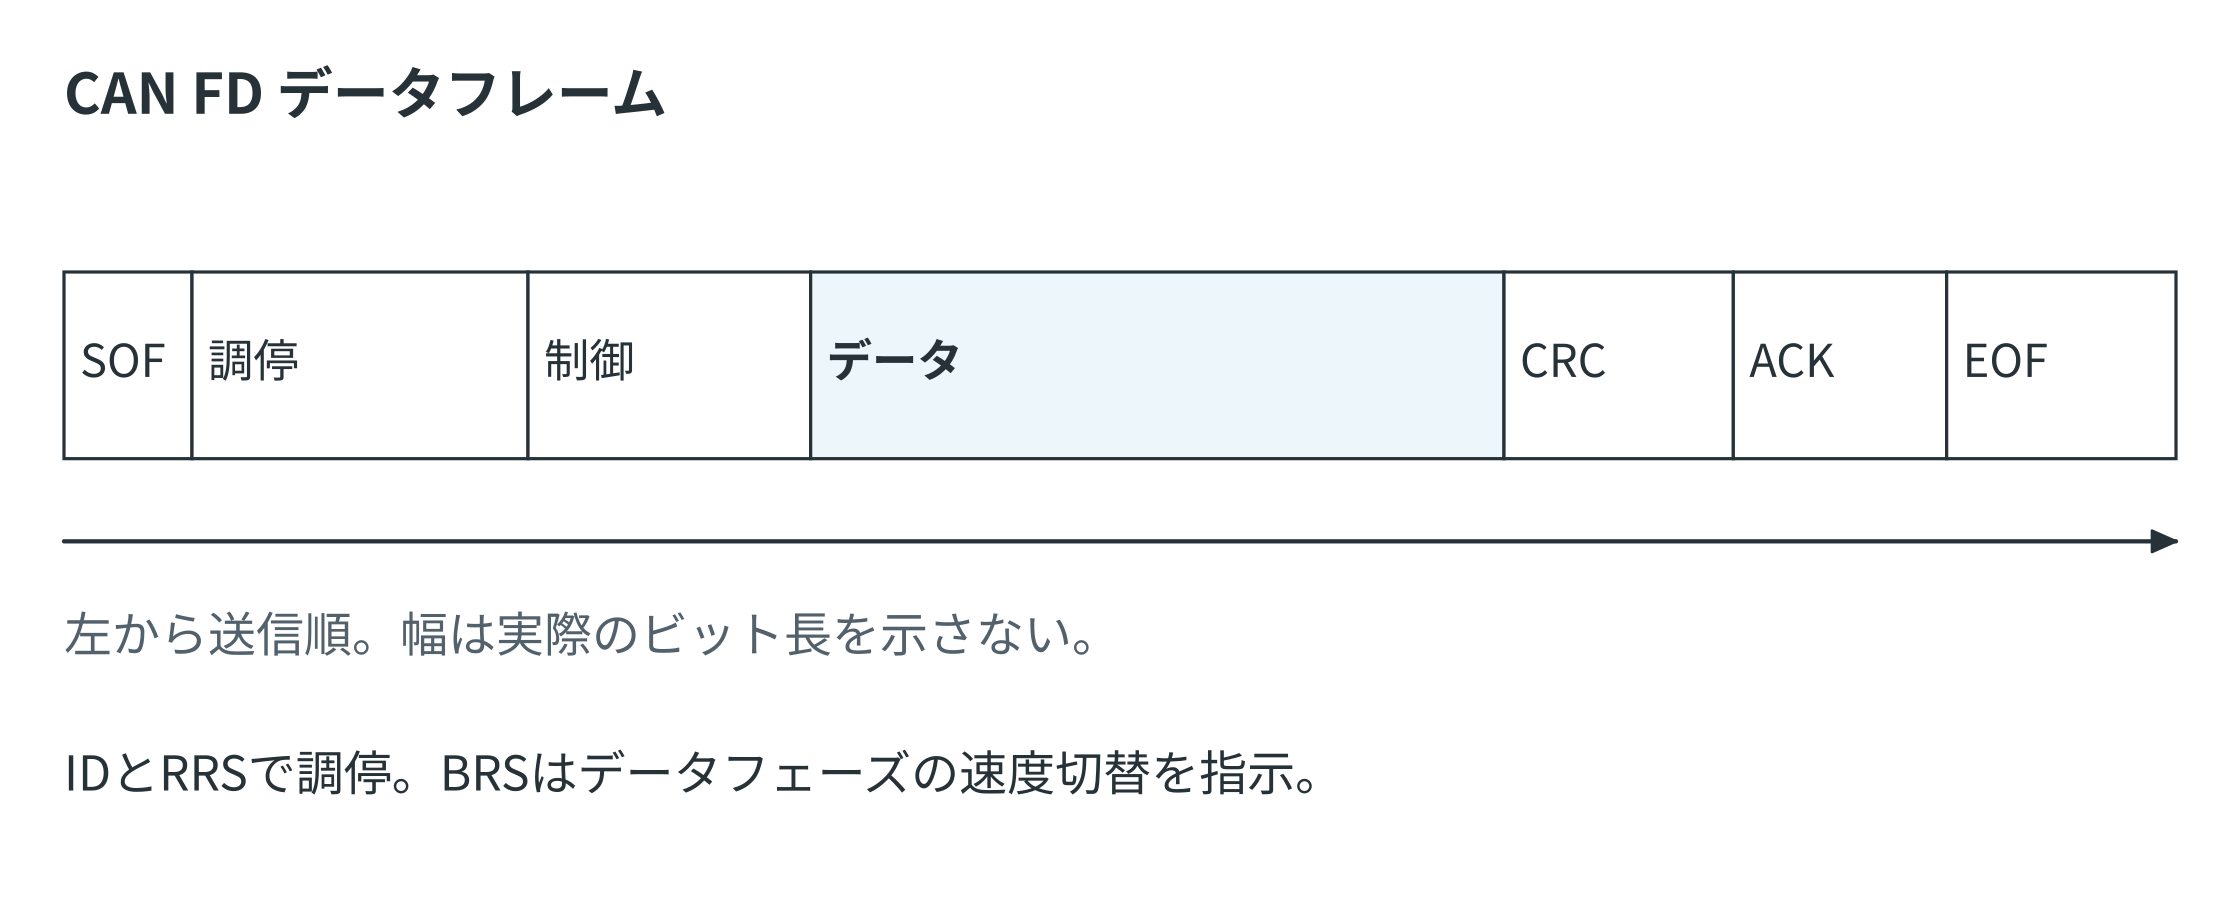
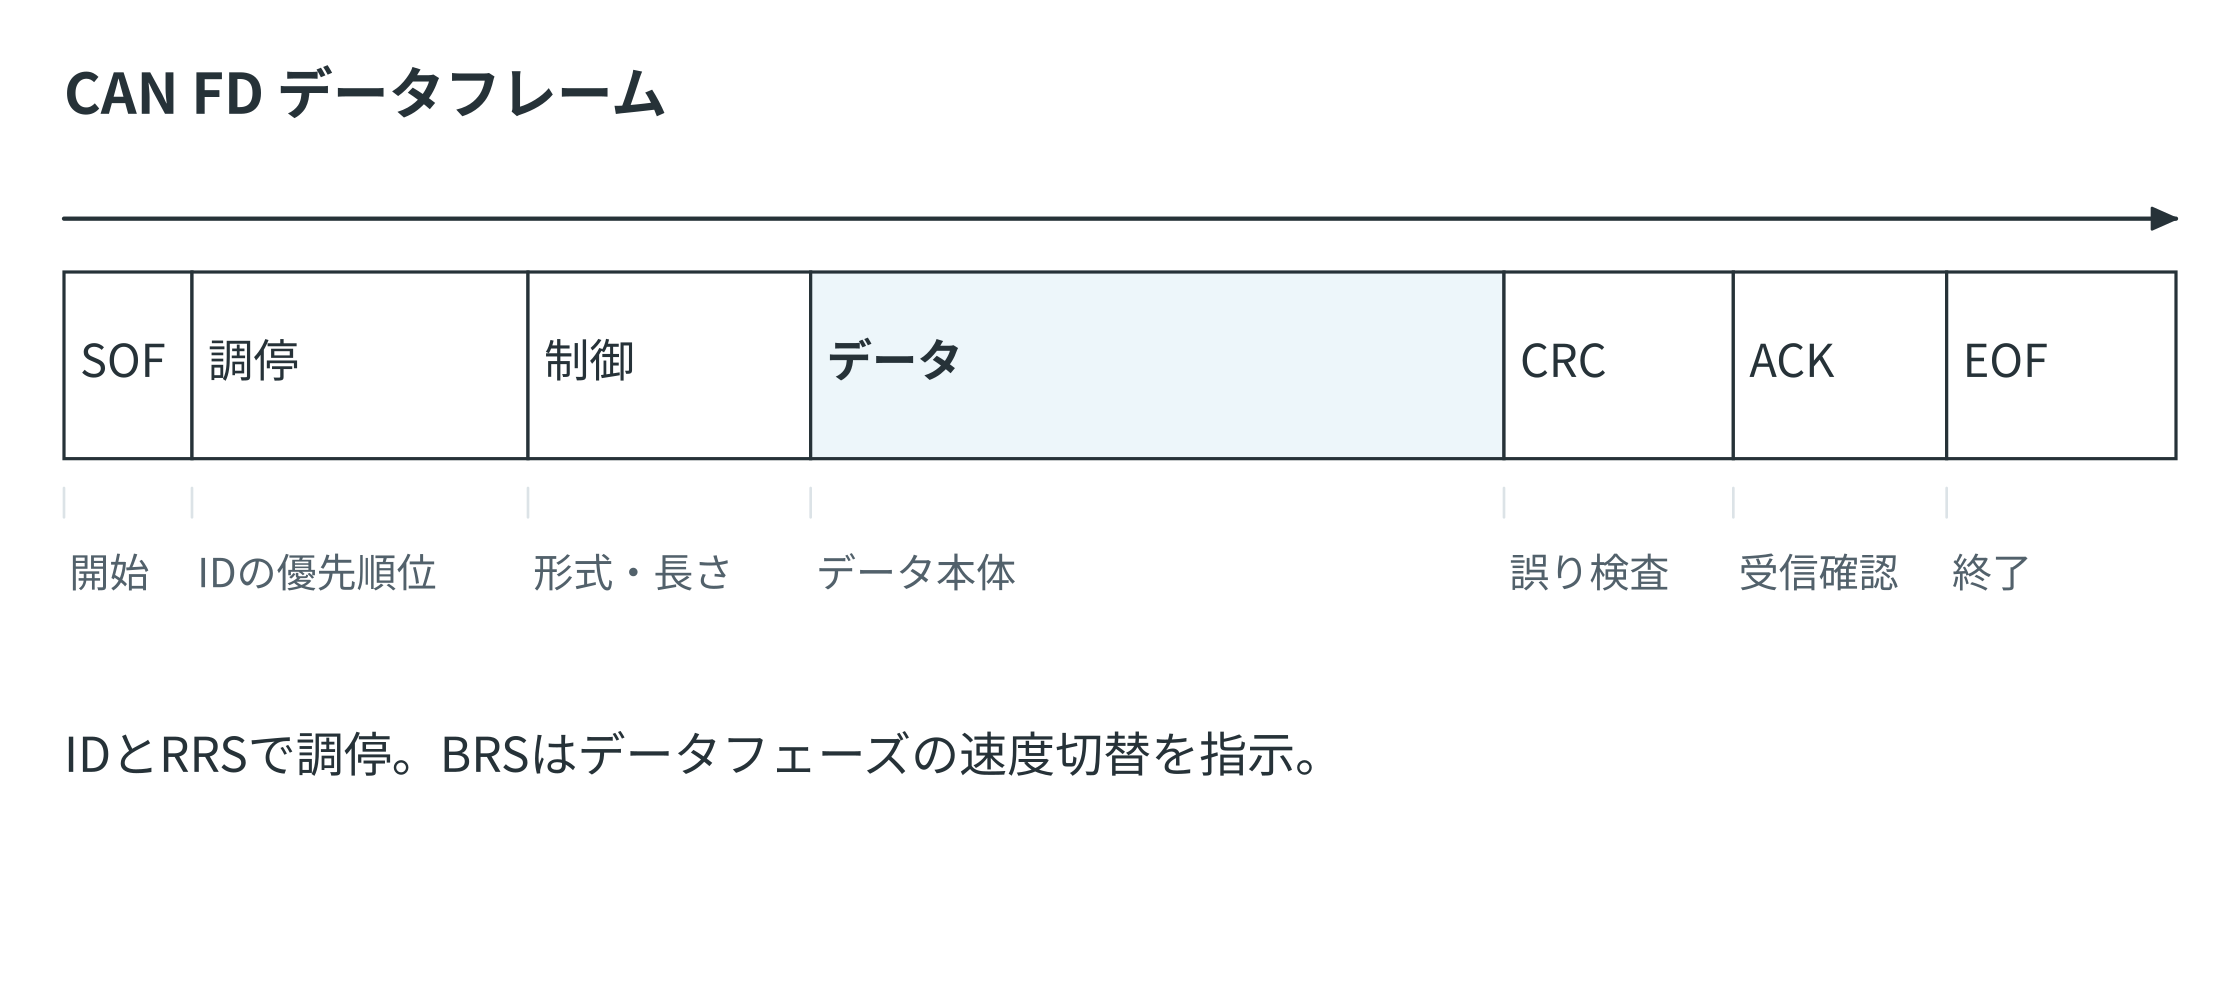
docs: clarify CAN diagrams

diff --git a/figure-sources/wired-communication/redesign_can.py b/figure-sources/wired-communication/redesign_can.py
@@ -78,8 +78,8 @@ def arbitration(mobile=False):
 
 
 def stuffing(mobile=False):
-    s=Scene(400 if mobile else 840,350)
-    s.text(24,20,'同じ値が5 bit続いたら\n反対値を挿入' if mobile else '同じ値が5 bit続いたら反対値を挿入',19,bold=True)
+    s=Scene(400 if mobile else 840,340)
+    s.text(24,20,'ビットスタッフィング',21,bold=True)
     bits=[1,0,0,0,0,0,1,1,0,1]
     x0,step=(28,34) if mobile else (94,68)
     for i,v in enumerate(bits):
@@ -87,14 +87,15 @@ def stuffing(mobile=False):
         if i==6:s.rect(x-5,91,step-7,58,BLUE_TINT,BLUE)
         s.text(x,101,str(v),24 if not mobile else 22,BLUE if i==6 else INK,width=step)
     s.line(x0+step,161,x0+step*6-12,161,INK,1.5)
-    s.text(24,194,'0が5つ続く → スタッフビット1を挿入',17)
-    s.text(24,239,'受信側は挿入したビットを取り除く。',18)
-    s.text(24,288,'Classical CANの動的スタッフィング例',17,MUTED)
+    s.text(x0+step*6-4,75,'挿入',15,BLUE,width=step)
+    s.text(24,194,'送信側：0が5つ続くと、反対の値を1 bit挿入',17)
+    s.text(24,239,'受信側：挿入された1 bitを取り除いて読む',17)
+    s.text(24,284,'元のデータ　1 0 0 0 0 0 1 0 1',16,MUTED)
     return s
 
 
 def fields(mobile=False,fd=False):
-    s=Scene(400 if mobile else 840,670 if mobile else 345)
+    s=Scene(400 if mobile else 840,548 if mobile else 372)
     s.text(24,20,'CAN FD データフレーム' if fd else 'Classical CAN データフレーム',21,bold=True)
     data=[('SOF','開始'),('調停','ID・RRS' if fd else 'ID・RTR'),('制御','FDF・BRS・DLC' if fd else 'DLC等'),('データ','0–64 byte' if fd else '0–8 byte'),('CRC','誤り検出'),('ACK','受信の応答'),('EOF','終了')]
     if mobile:
@@ -104,17 +105,17 @@ def fields(mobile=False,fd=False):
             s.text(60,y,label,19,bold=True,width=90)
             s.text(168,y,value,18,width=208)
             s.line(24,y+48,376,y+48,GRID,1)
-        s.text(24,579,'上から送信順。フィールド幅は模式的。',17,MUTED)
-        if fd:s.text(24,616,'CAN FDにはリモートフレームはない。',17)
     else:
         widths=[48,126,106,260,86,80,86];x=24
+        meanings=['開始','IDの優先順位','形式・長さ','データ本体','誤り検査','受信確認','終了']
         for i,((label,value),w) in enumerate(zip(data,widths)):
             s.rect(x,102,w,70,BLUE_TINT if label=='データ' else 'white',INK,1.2)
             s.text(x+6,123,label,17,bold=label=='データ',width=w-10)
+            s.line(x,183,x,194,GRID,1)
+            s.text(x+2,204,meanings[i],15,MUTED,width=w-4)
             x+=w
-        s.arrow(24,203,816,203,INK,1.6)
-        s.text(24,225,'左から送信順。幅は実際のビット長を示さない。',18,MUTED)
-        s.text(24,277,'IDとRRSで調停。BRSはデータフェーズの速度切替を指示。' if fd else '標準IDは11 bit、拡張IDは29 bit。データ部は最大8 byte。',18)
+        s.arrow(24,82,816,82,INK,1.6)
+        s.text(24,270,'IDとRRSで調停。BRSはデータフェーズの速度切替を指示。' if fd else '標準IDは11 bit、拡張IDは29 bit。データ部は最大8 byte。',18)
     return s
 
 
